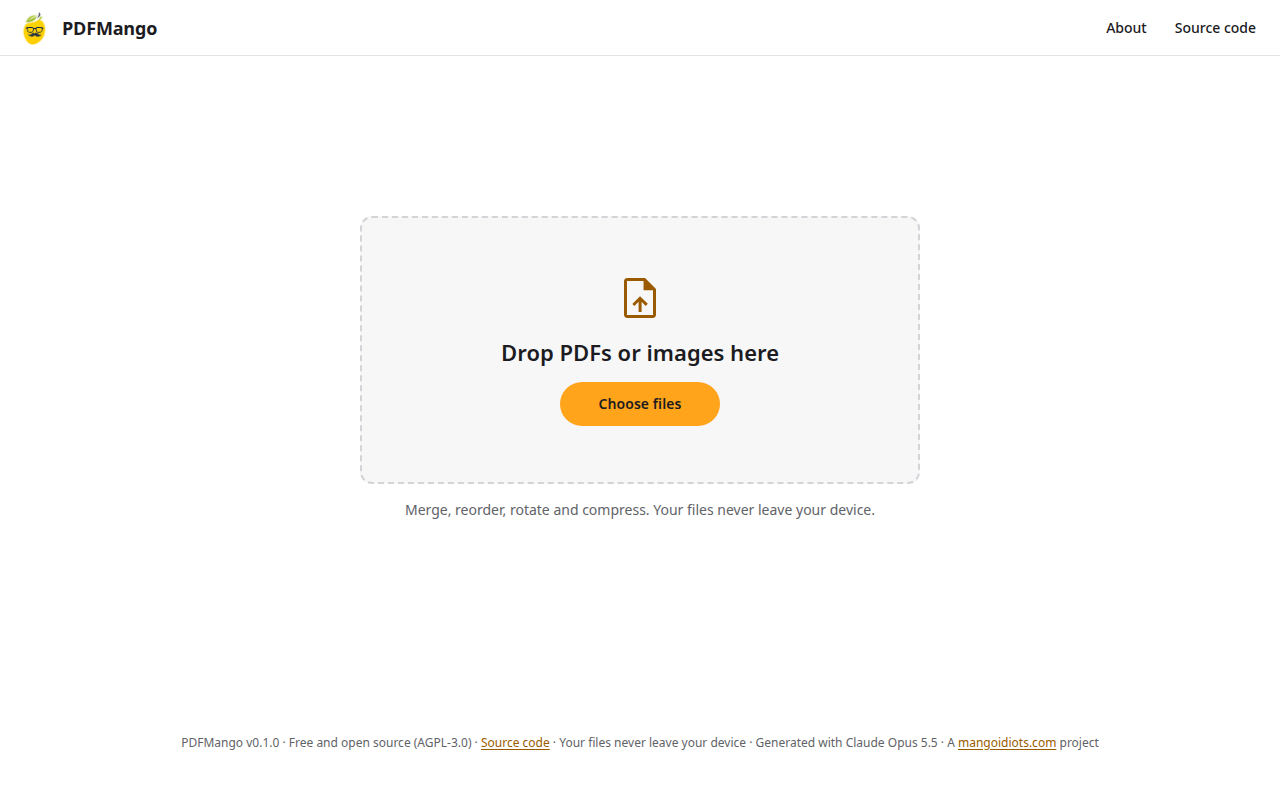
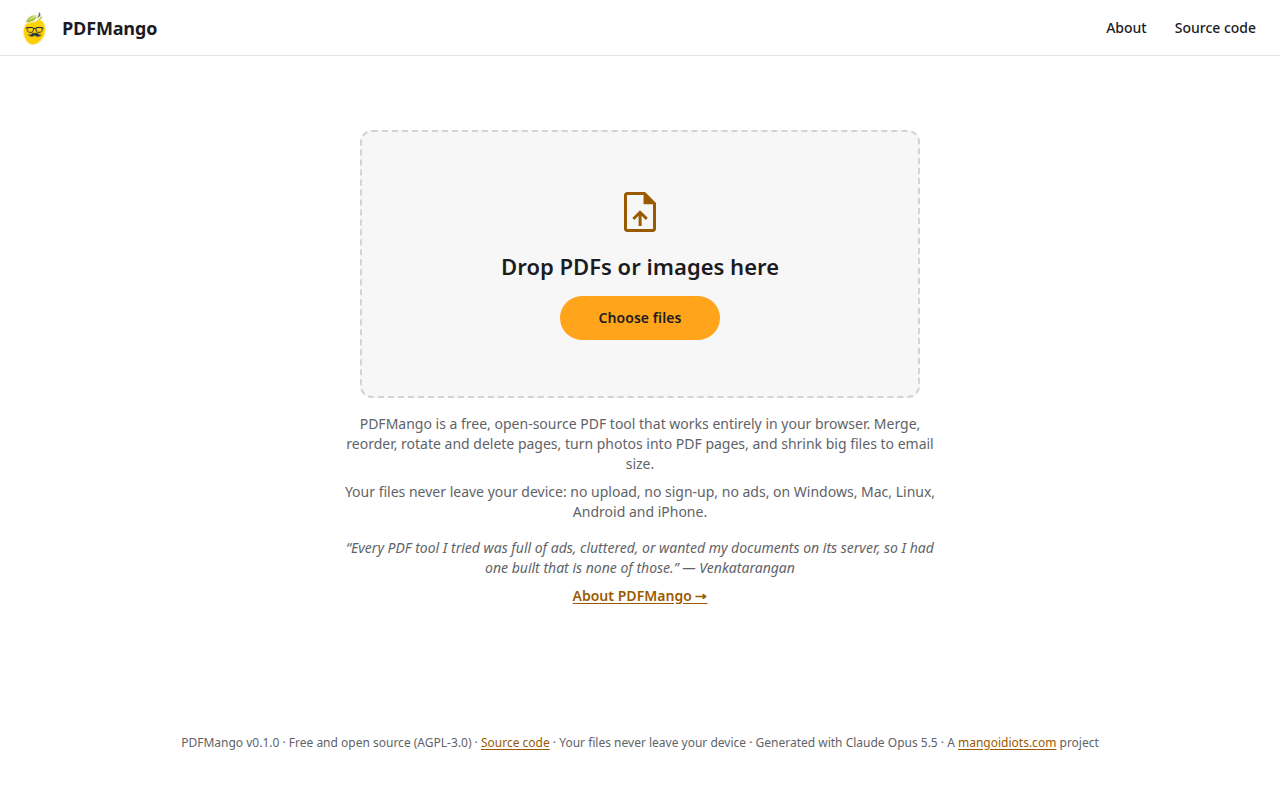
Empty screen: say what PDFMango is, why it exists, and link to About

Changed region(s): [[0.2812, 0.3125, 0.75, 0.5625], [0.2812, 0.5938, 0.7188, 0.75], [0.4688, 0.25, 0.5312, 0.2812]]

diff --git a/src/App.svelte b/src/App.svelte
@@ -109,9 +109,14 @@
     <div class="dropcard" onclick={(e) => e.target === e.currentTarget && chooseFiles()}>
       <Icon name="upload" size={48} />
       <h1>Drop PDFs or images here</h1>
-      <button type="button" class="btn btn-filled" onclick={chooseFiles} aria-describedby="empty-line">Choose files</button>
+      <button type="button" class="btn btn-filled" onclick={chooseFiles}>Choose files</button>
     </div>
-    <p class="empty-line" id="empty-line">Merge, reorder, rotate and compress. Your files never leave your device.</p>
+    <div class="intro">
+      <p>PDFMango is a free, open-source PDF tool that works entirely in your browser. Merge, reorder, rotate and delete pages, turn photos into PDF pages, and shrink big files to email size.</p>
+      <p>Your files never leave your device: no upload, no sign-up, no ads, on Windows, Mac, Linux, Android and iPhone.</p>
+      <p class="why">“Every PDF tool I tried was full of ads, cluttered, or wanted my documents on its server, so I had one built that is none of those.” — Venkatarangan</p>
+      <p><a href="/about/">About PDFMango →</a></p>
+    </div>
   </div>
 {:else}
   <Toolbar onadd={chooseFiles} ondownload={() => (downloadOpen = true)} onstartover={askStartOver} ondeleteall={askDeleteAll} />

diff --git a/index.html b/index.html
@@ -44,7 +44,12 @@
           <h1>Drop PDFs or images here</h1>
           <span class="btn btn-filled">Choose files</span>
         </div>
-        <p class="empty-line">Merge, reorder, rotate and compress. Your files never leave your device.</p>
+        <div class="intro">
+          <p>PDFMango is a free, open-source PDF tool that works entirely in your browser. Merge, reorder, rotate and delete pages, turn photos into PDF pages, and shrink big files to email size.</p>
+          <p>Your files never leave your device: no upload, no sign-up, no ads, on Windows, Mac, Linux, Android and iPhone.</p>
+          <p class="why">“Every PDF tool I tried was full of ads, cluttered, or wanted my documents on its server, so I had one built that is none of those.” — Venkatarangan</p>
+          <p><a href="/about/">About PDFMango →</a></p>
+        </div>
       </div>
     </main>
 

diff --git a/src/styles/app.css b/src/styles/app.css
@@ -45,11 +45,23 @@
 .dropcard .btn {
   min-width: 160px;
 }
-.empty-line {
-  max-width: 560px;
-  margin: 0;
+.intro {
+  display: flex;
+  flex-direction: column;
+  gap: 8px;
+  max-width: 600px;
   color: var(--text-2);
   text-align: center;
+}
+.intro p {
+  margin: 0;
+}
+.intro .why {
+  margin-top: 8px;
+  font-style: italic;
+}
+.intro a {
+  font-weight: 600;
 }
 
 /* Phones: leave room for the fixed bottom bar. */
